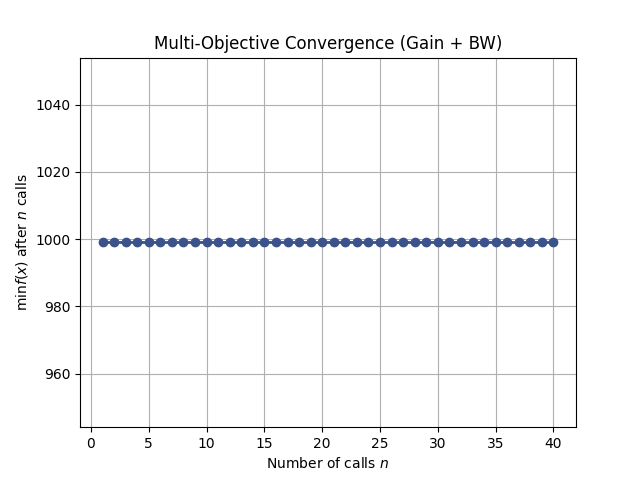
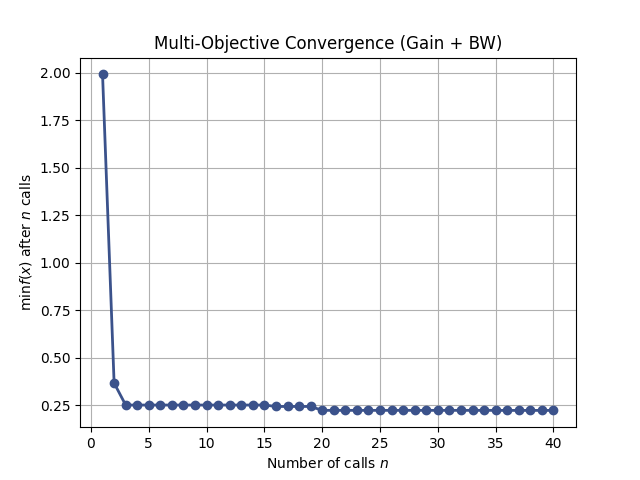
Added GUI for Single mos mode and Diff Pair

diff --git a/gui_app.py b/gui_app.py
@@ -40,7 +40,8 @@ class AnalogSizerApp(ctk.CTk):
         # 電路選擇按鈕 (使用 Segmented Button 看起來更現代)
         self.circuit_selector = ctk.CTkSegmentedButton(
             self.sidebar_frame,
-            values=["Single MOS", "Diff Pair", "Op-Amp"],
+            #values=["Single MOS", "Diff Pair", "Active Load", "Op-Amp"],
+            values=["Single MOS", "Diff Pair"],
             command=self.change_circuit_mode
         )
         self.circuit_selector.pack(padx=20, pady=10)
@@ -102,8 +103,10 @@ class AnalogSizerApp(ctk.CTk):
             self.setup_single_mos_ui()
         elif value == "Diff Pair":
             self.setup_diff_pair_ui()
-        elif value == "Op-Amp":
-            self.setup_opamp_ui()
+        #elif value == "Op-Amp":
+            #self.setup_opamp_ui()
+        #elif value == "Active Load": 
+            #self.setup_active_load_ui()
 
     # --- 介面建構函數 (Builders) ---
 
@@ -118,12 +121,16 @@ class AnalogSizerApp(ctk.CTk):
         self.add_input_field("Target Bandwidth (MHz):", "100.0")
         self.add_input_field("Load Resistance (kOhm):", "10.0")
 
-    def setup_opamp_ui(self):
-        """ 建立 Op-Amp 需要的輸入框 """
-        self.add_input_field("Open Loop Gain (dB):", "60.0")
-        self.add_input_field("Phase Margin (deg):", "60.0")
-        self.add_input_field("GBW (MHz):", "50.0")
-        ctk.CTkLabel(self.input_frame, text="⚠ (Phase 3 Under Development)", text_color="orange").pack(pady=5, padx=10, anchor="w")
+    #def setup_active_load_ui(self):
+    #    self.add_input_field("Target Gain (dB):", "40.0") # 主動負載可以挑戰更高的 Gain
+    #    self.add_input_field("Target BW (MHz):", "50.0")
+
+    #def setup_opamp_ui(self):
+    #    """ 建立 Op-Amp 需要的輸入框 """
+    #    self.add_input_field("Open Loop Gain (dB):", "60.0")
+    #    self.add_input_field("Phase Margin (deg):", "60.0")
+    #    self.add_input_field("GBW (MHz):", "50.0")
+    #    ctk.CTkLabel(self.input_frame, text="⚠ (Phase 3 Under Development)", text_color="orange").pack(pady=5, padx=10, anchor="w")
 
     def add_input_field(self, label_text, default_value):
         """ 輔助函數：快速產生 標籤+輸入框 """
@@ -155,18 +162,26 @@ class AnalogSizerApp(ctk.CTk):
         try:
             if mode == "Single MOS":
                 i_target = float(self.entries["Target Current (mA)"].get()) / 1000.0
-                
                 import main
                 main.run_single_mos_opt(i_target, callback=self.log_from_thread)
                 self.show_image("convergence_multi.png")
                 
             elif mode == "Diff Pair":
+                # 確保獲取正確的欄位名稱
                 gain = float(self.entries["Target Gain (dB)"].get())
                 bw = float(self.entries["Target Bandwidth (MHz)"].get()) * 1e6
                 
                 import main
+                # 呼叫已經修改好的 run_diff_pair_opt
                 main.run_diff_pair_opt(gain, bw, callback=self.log_from_thread)
                 self.show_image("convergence_diff_pair.png")
+            elif mode == "Active Load":
+                gain = float(self.entries["Target Gain (dB)"].get())
+                bw = float(self.entries["Target BW (MHz)"].get()) * 1e6
+                import main
+                main.run_active_load_opt(gain, bw, callback=self.log_from_thread)
+                self.show_image("convergence_active.png")
+                
         except Exception as e:
             self.log(f"Error: {str(e)}")
             import traceback
@@ -202,11 +217,6 @@ class AnalogSizerApp(ctk.CTk):
             self.log(f"❌ Error: {str(e)}")
 
         self.run_btn.configure(state="normal", text="🚀 Start Optimization")'''
-
-    def log(self, message):
-        """ 安全地更新 UI Log """
-        self.log_box.insert("end", message + "\n")
-        self.log_box.see("end")
 
     def show_image(self, img_path):
         """ 載入並顯示圖片 """

diff --git a/main.py b/main.py
@@ -22,7 +22,7 @@ def objective_function_sm(params):
 
     if current is None:
         error = 999
-        msg = f"❌ Simulation Failed for W={w_val:.2f}u"
+        msg = f"❌ Simulation Failed for W={w_val:.2f}u, L={l_val:.2f}u, NF={nf_val}"
     else:
         error = abs(TARGET_CURRENT - current)
         # 建立訊息字串
@@ -39,44 +39,30 @@ def objective_function_sm(params):
     #return error
 
 def objective_function_dp(params):
-    # 參數解包: W (um), L (um), R (kOhm)
     w_val, l_val, r_kohm = params
-    
-    # 將 R 轉回歐姆傳給 SPICE
     r_ohm = r_kohm * 1000 
     
-    # 1. 執行模擬
     raw_output = simulator.run_diff_pair(w_val, l_val, r_ohm)
-    
-    # 2. 解析結果
     res = parsers.parse_ac_results(raw_output)
     gain = res['gain']
     bw = res['bw']
     
-    # 如果模擬失敗 (NaN 或 None)
     if gain is None or bw is None:
+        msg = f"❌  Simulation Failed for W={w_val:.2f}u, L={l_val:.2f}u, R={r_kohm}"
+        print(msg)
+        if GUI_CALLBACK: GUI_CALLBACK(msg)
         return 999.0
     
-    # 3. 計算多目標 Cost (核心演算法)
-    # 我們希望 Gain >= Target，BW >= Target
-    # 使用相對誤差來平衡量級差異
-    
-    # Gain 誤差: 如果小於目標，懲罰很大；如果大於目標，獎勵 (誤差為0)
-    if gain < TARGET_GAIN:
-        err_gain = abs(TARGET_GAIN - gain) / TARGET_GAIN
-    else:
-        err_gain = 0 
-
-    # BW 誤差: 同理
-    if bw < TARGET_BW:
-        err_bw = abs(TARGET_BW - bw) / TARGET_BW
-    else:
-        err_bw = 0
-        
-    # 總誤差 = Gain誤差 + BW誤差 (權重 1:1)
+    # 計算 Cost (邏輯不變)
+    err_gain = abs(TARGET_GAIN - gain) / TARGET_GAIN if gain < TARGET_GAIN else 0 
+    err_bw = abs(TARGET_BW - bw) / TARGET_BW if bw < TARGET_BW else 0
     total_cost = err_gain + err_bw
     
-    print(f">> W={w_val:.2f}u, L={l_val:.2f}u, R={r_kohm:.2f}k | Gain={gain:.2f}dB, BW={bw/1e6:.2f}MHz | Cost={total_cost:.4f}")
+    # --- 修改點：將進度廣播給 GUI ---
+    msg = f">> W={w_val:.2f}u, L={l_val:.2f}u, R={r_kohm:.2f}k | Gain={gain:.2f}dB, BW={bw/1e6:.2f}MHz | Cost={total_cost:.4f}"
+    print(msg)
+    if GUI_CALLBACK:
+        GUI_CALLBACK(msg)
     
     return total_cost
 
@@ -118,32 +104,31 @@ def run_single_mos_opt(target_current, callback=None):
     if GUI_CALLBACK:
         GUI_CALLBACK(final_msg)
 
-def run_diff_pair_opt(target_gain, target_bw):
+def run_diff_pair_opt(target_gain, target_bw, callback=None): # 增加 callback 參數
+    global TARGET_GAIN, TARGET_BW, GUI_CALLBACK
+    TARGET_GAIN = target_gain
+    TARGET_BW = target_bw
+    GUI_CALLBACK = callback # 設定傳聲筒
+    
     print("=== Differential Pair Multi-Objective Optimizer ===")
-    print(f"🎯 目標: Gain >= {TARGET_GAIN}dB, BW >= {TARGET_BW/1e6}MHz")
+    if GUI_CALLBACK:
+        GUI_CALLBACK(f"🎯 Target: Gain >= {target_gain}dB, BW >= {target_bw/1e6}MHz")
     
-    # 搜尋空間
-    # W: 1u ~ 100u
-    # L: 0.15u ~ 2u
-    # R: 1k ~ 50k (負載電阻)
-    space = [
-        (1.0, 100.0), 
-        (0.15, 2.0),
-        (1.0, 50.0)
-    ]
+    space = [(1.0, 100.0), (0.15, 2.0), (1.0, 50.0)]
     
-    # 開始優化
     res = gp_minimize(objective_function_dp, space, n_calls=40, random_state=42)
     
-    print("\n=== 最終結果 ===")
-    print(f"最佳參數: W={res.x[0]:.2f}u, L={res.x[1]:.2f}u, R={res.x[2]:.2f}kOhm")
-    print(f"最小 Cost: {res.fun:.4f}")
-
     # 畫圖
     plt.figure()
     plot_convergence(res)
     plt.title("Multi-Objective Convergence (Gain + BW)")
     plt.savefig("convergence_diff_pair.png")
+    plt.close() # 記得關閉畫布節省記憶體
+
+    final_msg = f"🎯 AI Found: W={res.x[0]:.2f}u, L={res.x[1]:.2f}u, R={res.x[2]:.2f}k, Cost={res.fun:.4f}"
+    print(f"\n=== 最終結果 ===\n{final_msg}")
+    if GUI_CALLBACK:
+        GUI_CALLBACK(final_msg)
 
 if __name__ == "__main__":
     run_single_mos_opt(1e-3)

diff --git a/simulator.py b/simulator.py
@@ -46,6 +46,25 @@ def run_diff_pair(w_val, l_val, r_val):
     result = subprocess.run(["ngspice", "-b", "work/run_diff.sp"], capture_output=True, text=True)
     return result.stdout
 
+def run_active_load(wn, ln, wp, lp):
+    lib_path = "/home/jeffy/.volare/volare/sky130/versions/0fe599b2afb6708d281543108caf8310912f54af/sky130A/libs.tech/combined/sky130.lib.spice"
+    
+    with open("templates/diff_pair_active_load_tb.sp", "r") as f:
+        content = f.read()
+    
+    content = content.replace("REPLACE_PDK_PATH", lib_path)
+    content = content.replace("REPLACE_WN", str(wn))
+    content = content.replace("REPLACE_LN", str(ln))
+    content = content.replace("REPLACE_WP", str(wp))
+    content = content.replace("REPLACE_LP", str(lp))
+    
+    with open("work/run_active.sp", "w") as f:
+        f.write(content)
+    
+    import subprocess
+    result = subprocess.run(["ngspice", "-b", "work/run_active.sp"], capture_output=True, text=True)
+    return result.stdout
+
 if __name__ == "__main__":
     print("🚀 啟動測試模擬...")
     output = run_simulation(5, 0.15)

diff --git a/parsers.py b/parsers.py
@@ -10,24 +10,17 @@ def parse_dc_current(output_text):
         return None
 
 def parse_ac_results(output_text):
-    """
-    從 Ngspice 輸出中抓取 Gain (dB) 和 Bandwidth (Hz)
-    """
-    results = {}
+    results = {'gain': None, 'bw': None}
     
-    # 抓取 Gain (例如: gain_db = 2.050000e+01)
-    gain_match = re.search(r"gain_db\s*=\s*([-+]?\d*\.?\d+(?:[eE][-+]?\d+)?)", output_text)
+    # 找 max_gain (注意模板裡改名了)
+    gain_match = re.search(r"max_gain\s*=\s*([-+]?\d*\.?\d+(?:[eE][-+]?\d+)?)", output_text)
     if gain_match:
         results['gain'] = float(gain_match.group(1))
-    else:
-        results['gain'] = None
-
-    # 抓取 Bandwidth (例如: bw_hz = 1.000000e+08)
+        
+    # 找 bw_hz
     bw_match = re.search(r"bw_hz\s*=\s*([-+]?\d*\.?\d+(?:[eE][-+]?\d+)?)", output_text)
     if bw_match:
         results['bw'] = float(bw_match.group(1))
-    else:
-        results['bw'] = None
         
     return results
 
